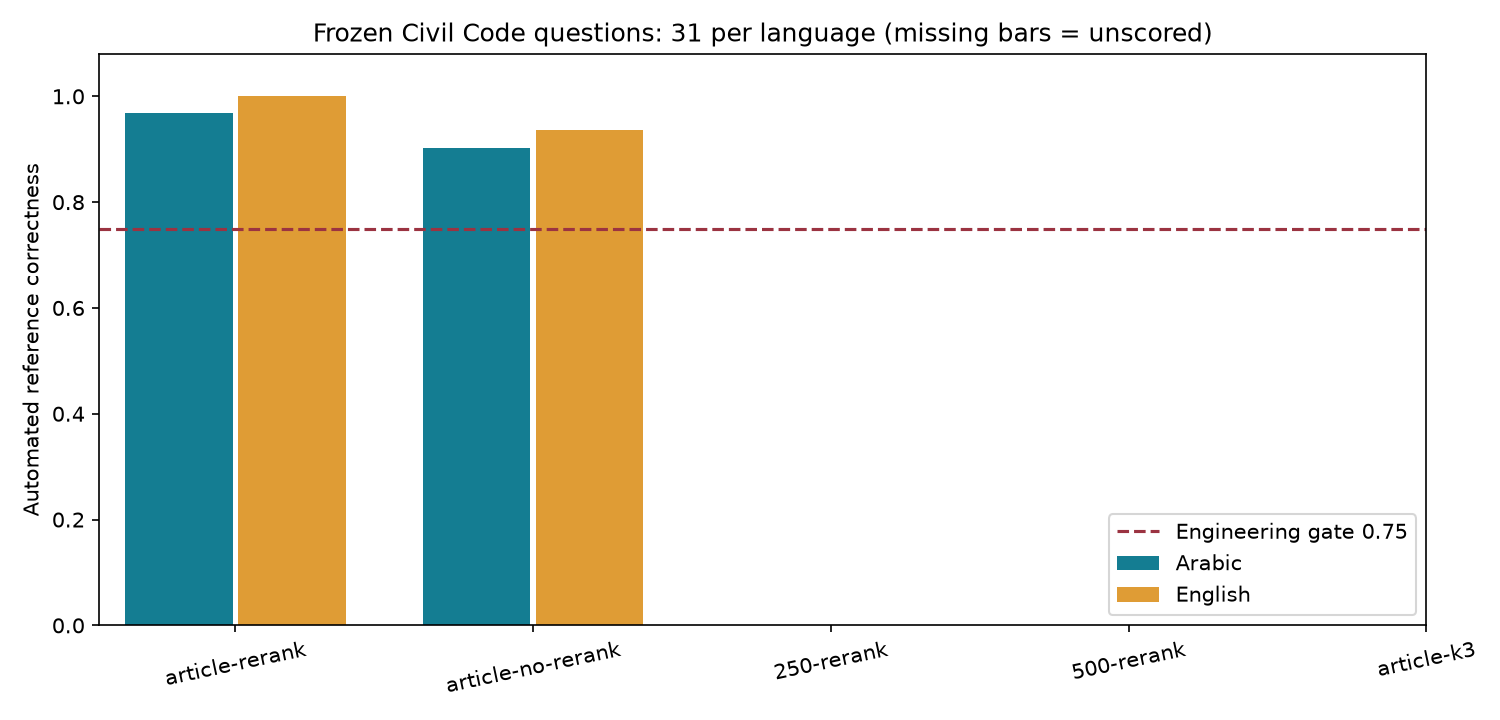
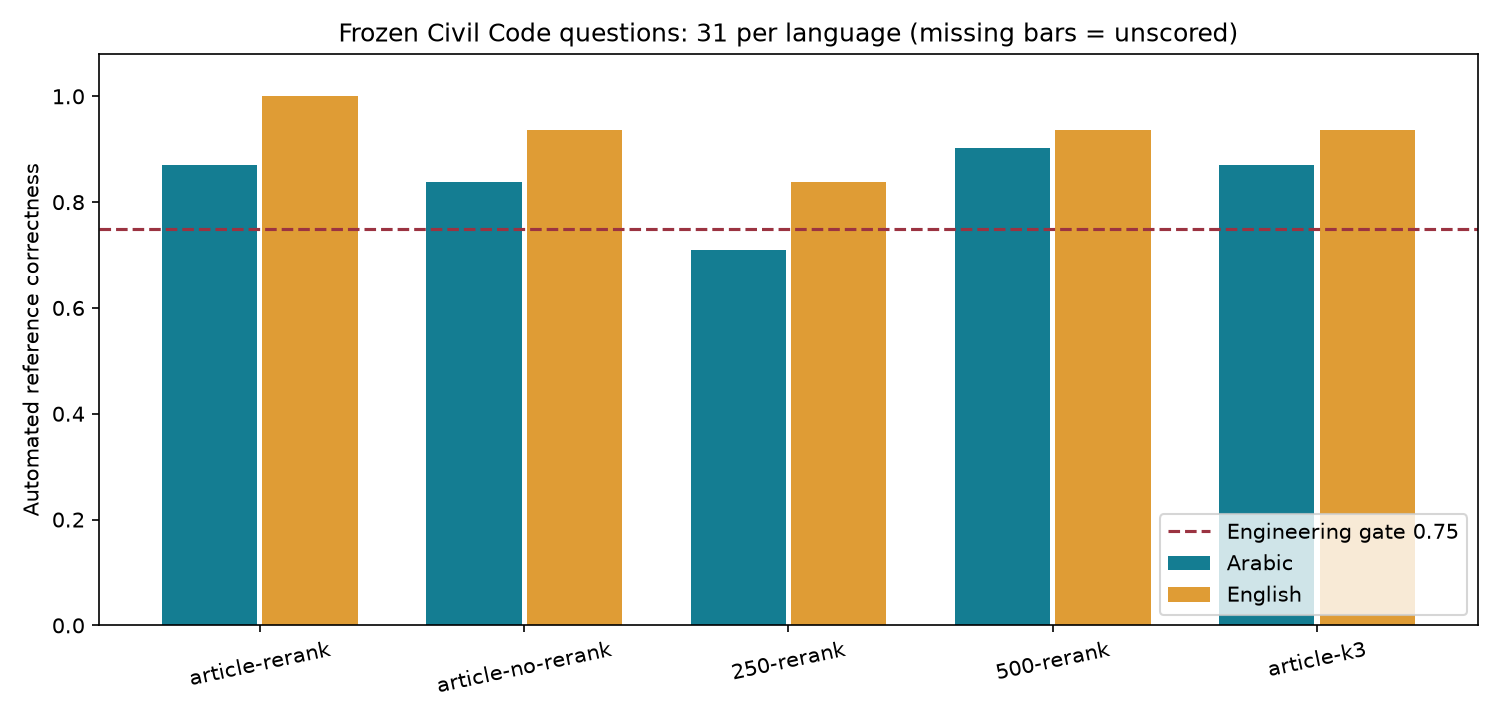
docs(eval): finalize Civil Code results and measured serving report

diff --git a/scripts/report_final_project.py b/scripts/report_final_project.py
@@ -394,7 +394,7 @@ def main():
         ),
         "- HTTP 429 interrupted the first scoring attempt. Saved answers and completed scores were resumed with request pacing; no answers were regenerated to improve scores.",
         "- Invalid/truncated judge JSON interrupted scoring. Rubric calls use 2,048 output tokens with one 4,096-token retry: length termination repeats the original request, while invalid JSON/schema adds a format-only reminder of the required typed fields. A second invalid response fails; missing or quoted booleans are never coerced into grades. The format-retry cache version is recorded in the request hash. Successful rubric/RAGAS calls are cached against exact inputs for resume.",
-        "- The offline scorer was deliberately checkpointed to load scheduling/recovery fixes. KeyboardInterrupt entries in scoring-unicode-v2.log document those worker restarts; they are not repeated model training or RAG generation. Intermittent provider 500s retain cached work and reset the recovery budget only after completed-case progress; four consecutive failures without progress remain bounded.",
+        "- The offline scorer was deliberately checkpointed to load scheduling/recovery fixes. KeyboardInterrupt entries in the scoring logs document those worker restarts; they are not repeated model training or RAG generation. The recovery guard recognizes completed cases and new persisted grading-stage results. Diagnostic writes do not count as progress. Four consecutive failures with neither kind of progress and the wall deadline remain bounded.",
         "",
         "## Earlier training and model selection",
         "",
@@ -416,7 +416,7 @@ def main():
         "",
         "The real upload/process workflow exposed a numeric asset-ID lookup bug; processing now accepts the ID returned by upload while retaining filename lookup and project scope. Queued model calls now wait asynchronously before entering a worker, so the model lock does not consume the worker pool. Bulk SQL operations have a 30-second budget; readiness retains its separate deadline. PGVector reindex batches replace only their supplied chunk IDs transactionally, with configurable batch size (default 50).",
         "",
-        "Verification: 243 tests passed with 86.55% source coverage. Two actual same-vector reinsertions into the isolated PGVector project left exactly 2,297 rows. The existing Docker API was rebuilt after confirming no active production jobs; nginx health returned 200, missing-key requests 401 and authenticated blank queries 422, all with request IDs. These health/authentication checks also passed after the subsequent laptop restart on 16 October. Existing credentials, documents and production indexes were preserved.",
+        "Verification: 244 tests passed with 86.55% source coverage. Two actual same-vector reinsertions into the isolated PGVector project left exactly 2,297 rows. The existing Docker API was rebuilt after confirming no active production jobs; nginx health returned 200, missing-key requests 401 and authenticated blank queries 422, all with request IDs. These health/authentication checks also passed after the subsequent laptop restart on 16 October. Existing credentials, documents and production indexes were preserved.",
         "",
         "## Five configuration comparisons",
         "",
@@ -523,12 +523,14 @@ def main():
         "",
         "See `eval/CIVIL_CODE_EVALUATION.md` for the frozen dataset, extraction and five-run command. Raw reports, checkpoints, calibration, exact contexts, MLflow tracking database, Locust CSV/HTML, streaming probes and metric snapshots remain local under `eval/reports/final-project/` and `reports/mlflow.db`. No secrets are included in the shareable evidence archive.",
         "",
-        "The Grafana screenshot shows the configured production dashboard and the published completed article-rerank scores from the current versioned judge. The isolated port-8003 load API was not a Prometheus scrape target; its stage figures use the saved before/after metric snapshots. Locust HTML is a periodic snapshot; final JSON counts after draining take precedence.",
+        "The Grafana screenshot shows the configured production dashboard and the published completed article-rerank scores from the current versioned judge. Historical score steps include different judge profiles and do not establish model improvement; published-evaluation.json pins the current source report. The isolated port-8003 load API was not a Prometheus scrape target; its stage figures use the saved before/after metric snapshots. Locust HTML is a periodic snapshot; final JSON counts after draining take precedence.",
         "",
     ]
     if revised_super:
         lines += [
             "The final scoring profile uses the original Nemotron 3 Super endpoint with the revised candidate-unicode-v2 rubric. A real RAGAS request succeeded and all 28 controls passed again (super-candidate-judge-calibration.json) after repeated VL endpoint throttling. It scores every configuration separately under configurations-super-candidate-v2/. Exact original-model RAGAS cache entries are reusable through their input/model/options hash; changed reference-rubric requests have new keys. VL grades and legacy reference grades are retained for audit and are not mixed into this comparison.",
+            "",
+            "The final reference rubric rejects the Arabic Article 44 and truncated Article 226 answers, but still accepts the Article 94 and 147 omissions. Its RAGAS faithfulness score of 1.0 for Article 44 also misses the unsupported definition. These disagreements are recorded in final-judge-review.json; the automatic scores have not been replaced with assistant judgments.",
             "",
         ]
     args.report.parent.mkdir(parents=True, exist_ok=True)

diff --git a/docs/final-project-report.md b/docs/final-project-report.md
@@ -2,7 +2,7 @@
 
 Measured Civil Code retrieval, answer quality and local serving capacity. These results are engineering diagnostics; they do not certify legal correctness.
 
-**Scoring is incomplete.** All five configurations have captured 62 answers each. Missing scores are n/a; no five-way quality winner or promotion is claimed while the consistent regrade is unfinished.
+All five configurations have completed automated scoring; the judge limitations below still apply.
 
 ## Source and experiment
 
@@ -14,10 +14,10 @@ Measured Civil Code retrieval, answer quality and local serving capacity. These 
 - Quality runs seed disposable embedded Qdrant indexes from the extracted Qalam articles and use the existing RAG controller. The separate real upload/process/index load workflow uses PGVector; no backend-quality equivalence is inferred.
 - Generator uses 4-bit NF4 on the 6-GiB RTX 3060; context 2,048, one active generation sequence. No adapter is loaded and no training was performed.
 - Direct NVIDIA Nemotron VL 1B v2 embeddings (2,048 dimensions) avoid exhausting the production OpenRouter 50-request daily allowance. Existing production settings/indexes were preserved.
-- Independent judge: NVIDIA Nemotron 3.5 Super VL 120B, temperature zero, candidate-unicode-v2 rubric. All 28 bilingual numerical, completeness and refusal controls passed before scoring. All five configurations use this same judge/profile in a separate scoring directory; legacy scores are not mixed in. Controls are a sanity check, not legal expert validation.
+- Independent judge: `nvidia/nemotron-3-super-120b-a12b`, temperature zero, candidate-unicode-v2 rubric. All 28 bilingual numerical, completeness and refusal controls passed before scoring. All five configurations use this same judge/profile in a separate scoring directory; legacy scores are not mixed in. Controls are a sanity check, not legal expert validation.
 - HTTP 429 interrupted the first scoring attempt. Saved answers and completed scores were resumed with request pacing; no answers were regenerated to improve scores.
-- An unterminated judge JSON response also interrupted scoring. Invalid/truncated output is rejected; rubric calls use 2,048 output tokens, with one 4,096-token retry only when the API reports length termination. Partial responses never become scores. Successful rubric/RAGAS calls are cached against exact inputs for resume.
-- The offline scorer was deliberately checkpointed to load scheduling/recovery fixes. KeyboardInterrupt entries in scoring-unicode-v2.log document those worker restarts; they are not repeated model training or RAG generation. Intermittent provider 500s retain cached work and reset the recovery budget only after completed-case progress; four consecutive failures without progress remain bounded.
+- Invalid/truncated judge JSON interrupted scoring. Rubric calls use 2,048 output tokens with one 4,096-token retry: length termination repeats the original request, while invalid JSON/schema adds a format-only reminder of the required typed fields. A second invalid response fails; missing or quoted booleans are never coerced into grades. The format-retry cache version is recorded in the request hash. Successful rubric/RAGAS calls are cached against exact inputs for resume.
+- The offline scorer was deliberately checkpointed to load scheduling/recovery fixes. KeyboardInterrupt entries in the scoring logs document those worker restarts; they are not repeated model training or RAG generation. The recovery guard recognizes completed cases and new persisted grading-stage results. Diagnostic writes do not count as progress. Four consecutive failures with neither kind of progress and the wall deadline remain bounded.
 
 ## Earlier training and model selection
 
@@ -39,30 +39,30 @@ The pilot's M/A adapter showed more masked-evidence rejection with reduced answe
 
 The real upload/process workflow exposed a numeric asset-ID lookup bug; processing now accepts the ID returned by upload while retaining filename lookup and project scope. Queued model calls now wait asynchronously before entering a worker, so the model lock does not consume the worker pool. Bulk SQL operations have a 30-second budget; readiness retains its separate deadline. PGVector reindex batches replace only their supplied chunk IDs transactionally, with configurable batch size (default 50).
 
-Verification: 242 tests passed with 86.55% source coverage. Two actual same-vector reinsertions into the isolated PGVector project left exactly 2,297 rows. The existing Docker API was rebuilt after confirming no active production jobs; nginx health returned 200, missing-key requests 401 and authenticated blank queries 422, all with request IDs. These health/authentication checks also passed after the subsequent laptop restart on 16 October. Existing credentials, documents and production indexes were preserved.
+Verification: 244 tests passed with 86.55% source coverage. Two actual same-vector reinsertions into the isolated PGVector project left exactly 2,297 rows. The existing Docker API was rebuilt after confirming no active production jobs; nginx health returned 200, missing-key requests 401 and authenticated blank queries 422, all with request IDs. These health/authentication checks also passed after the subsequent laptop restart on 16 October. Existing credentials, documents and production indexes were preserved.
 
 ## Five configuration comparisons
 
 | Configuration | Faithfulness | Relevancy | Context precision | Context recall | Reference accuracy | p95 seconds | Scored / 62 | Gate |
 |---|---:|---:|---:|---:|---:|---:|---:|---|
-| article-rerank | 0.981 | 0.715 | 0.955 | 1.000 | 0.984 | 28.719 | 62/62 | PASS |
-| article-no-rerank | 0.971 | 0.719 | 0.896 | 1.000 | 0.919 | 28.000 | 62/62 | PASS |
-| 250-rerank | n/a | n/a | n/a | n/a | n/a | 27.308 | 8/62 | PENDING |
-| 500-rerank | n/a | n/a | n/a | n/a | n/a | 36.618 | 0/62 | PENDING |
-| article-k3 | n/a | n/a | n/a | n/a | n/a | 33.956 | 0/62 | PENDING |
+| article-rerank | 0.949 | 0.710 | 0.962 | 1.000 | 0.935 | 28.719 | 62/62 | PASS |
+| article-no-rerank | 0.946 | 0.706 | 0.894 | 1.000 | 0.887 | 28.000 | 62/62 | PASS |
+| 250-rerank | 0.928 | 0.769 | 0.915 | 0.950 | 0.774 | 27.308 | 62/62 | FAIL |
+| 500-rerank | 0.925 | 0.719 | 0.958 | 1.000 | 0.919 | 36.618 | 62/62 | PASS |
+| article-k3 | 0.969 | 0.746 | 0.957 | 1.000 | 0.903 | 33.956 | 62/62 | PASS |
 
 | Configuration / language | Answerable accuracy | Abstention accuracy | Article hit rate |
 |---|---:|---:|---:|
-| article-rerank / ar | 1.000 | 0.833 | 1.000 |
+| article-rerank / ar | 0.880 | 0.833 | 1.000 |
 | article-rerank / en | 1.000 | 1.000 | 1.000 |
-| article-no-rerank / ar | 0.920 | 0.833 | 1.000 |
+| article-no-rerank / ar | 0.840 | 0.833 | 1.000 |
 | article-no-rerank / en | 0.960 | 0.833 | 1.000 |
-| 250-rerank / ar | n/a | n/a | 1.000 |
-| 250-rerank / en | n/a | n/a | 1.000 |
-| 500-rerank / ar | n/a | n/a | 1.000 |
-| 500-rerank / en | n/a | n/a | 1.000 |
-| article-k3 / ar | n/a | n/a | 1.000 |
-| article-k3 / en | n/a | n/a | 1.000 |
+| 250-rerank / ar | 0.680 | 0.833 | 1.000 |
+| 250-rerank / en | 0.800 | 1.000 | 1.000 |
+| 500-rerank / ar | 0.920 | 0.833 | 1.000 |
+| 500-rerank / en | 0.920 | 1.000 | 1.000 |
+| article-k3 / ar | 0.920 | 0.667 | 1.000 |
+| article-k3 / en | 0.920 | 1.000 | 1.000 |
 
 Faithfulness excludes expected refusals; reference accuracy includes them. Additional RAGAS scores cover answerable questions only. PASS is the automated engineering threshold, not legal acceptance: the judge's known false positives below can overestimate correctness. Generation remains sequential; remote grading is excluded from response latency. Completed per-case answers and exact retrieved contexts are saved. MLflow records the five configurations and artifacts; interrupted attempts remain visible.
 
@@ -95,7 +95,7 @@ The assistant compared all 62 article-rerank outputs with their frozen reference
 
 The legacy Super judge misread a clear Arabic court-address refusal and invented claims when grading the Article 374 answer. Its original machine scores are preserved under configurations/ for audit. The evidence includes assistant-answer-review.json with exact case IDs; no assistant-corrected legal accuracy percentage is inferred.
 
-The revised judge also misses real defects: for Arabic Article 44 it assigns full faithfulness while omitting the unsupported definition of legal interdiction from its claim list. It accepts the incomplete Arabic Article 94, 147 and truncated Article 226 answers despite the earlier source review's findings. The shorter omission control passed, but that did not transfer reliably to these longer real outputs. Passing calibration does not guarantee exhaustive claim extraction or legally correct grading; every reported correctness score remains an automated estimate. See revised-judge-review.json; original scores are preserved.
+The separately recorded revised Super VL judge also misses real defects: for Arabic Article 44 it assigns full faithfulness while omitting the unsupported definition of legal interdiction from its claim list. It accepts the incomplete Arabic Article 94, 147 and truncated Article 226 answers despite the earlier source review's findings. The shorter omission control passed, but that did not transfer reliably to these longer real outputs. Passing calibration does not guarantee exhaustive claim extraction or legally correct grading; every reported correctness score remains an automated estimate. See revised-judge-review.json; original scores are preserved.
 
 A recovery check on 16 October found Nemotron 3.5 Super VL callable, but the legacy rubric failed 11 of 28 controls. Investigation found that Arabic rubric inputs were Unicode-escaped and candidate claims could be confused with reference claims. The revised rubric sends readable Arabic, explicitly identifies candidate_answer, forbids replacing its words/numbers with reference claims and rejects omitted required conditions. It passed all 28 controls; super35-judge-calibration.json records the revised results and super35-legacy-rubric-calibration.json retains the failures. Changing serialization, instructions and judge requires regrading every configuration separately; earlier scores are not comparable as a model-quality improvement. DeepSeek V4.1 Flash timed out with its documented non-thinking option.
 
@@ -117,7 +117,11 @@ The SSE tokenizer counts support the reported end-to-end output rate. No provide
 
 See `eval/CIVIL_CODE_EVALUATION.md` for the frozen dataset, extraction and five-run command. Raw reports, checkpoints, calibration, exact contexts, MLflow tracking database, Locust CSV/HTML, streaming probes and metric snapshots remain local under `eval/reports/final-project/` and `reports/mlflow.db`. No secrets are included in the shareable evidence archive.
 
-The Grafana screenshot shows the configured production dashboard and the published completed article-rerank scores from the current versioned judge. The isolated port-8003 load API was not a Prometheus scrape target; its stage figures use the saved before/after metric snapshots. Locust HTML is a periodic snapshot; final JSON counts after draining take precedence.
+The Grafana screenshot shows the configured production dashboard and the published completed article-rerank scores from the current versioned judge. Historical score steps include different judge profiles and do not establish model improvement; published-evaluation.json pins the current source report. The isolated port-8003 load API was not a Prometheus scrape target; its stage figures use the saved before/after metric snapshots. Locust HTML is a periodic snapshot; final JSON counts after draining take precedence.
+
+The final scoring profile uses the original Nemotron 3 Super endpoint with the revised candidate-unicode-v2 rubric. A real RAGAS request succeeded and all 28 controls passed again (super-candidate-judge-calibration.json) after repeated VL endpoint throttling. It scores every configuration separately under configurations-super-candidate-v2/. Exact original-model RAGAS cache entries are reusable through their input/model/options hash; changed reference-rubric requests have new keys. VL grades and legacy reference grades are retained for audit and are not mixed into this comparison.
+
+The final reference rubric rejects the Arabic Article 44 and truncated Article 226 answers, but still accepts the Article 94 and 147 omissions. Its RAGAS faithfulness score of 1.0 for Article 44 also misses the unsupported definition. These disagreements are recorded in final-judge-review.json; the automatic scores have not been replaced with assistant judgments.
 
 ## Figures
 

diff --git a/docs/plan-review.md b/docs/plan-review.md
@@ -10,26 +10,32 @@ limits and `docs/cue-memory.md` for the experiment/audit distinction.
 
 Measured evidence is now in [the final-project report](final-project-report.md).
 Qalam extracted all 1,149 Civil Code articles; the frozen set has 62 bilingual
-questions. All five configurations captured 62 real answers each. Complete
-RAGAS/reference scores and pending provider-limited scores are distinguished in
-the report; no five-way quality winner is claimed while grading is incomplete.
+questions. All five configurations captured and graded 62 real answers each:
+310 results with the same versioned Nemotron 3 Super judge. Exact saved answers,
+contexts and latencies are preserved; the final audit reproduces every aggregate
+and language-specific gate. The article/rerank baseline has the highest automated
+reference mean (58/62); the 250-character variant fails the Arabic quality gate.
+Known judge errors prevent interpreting these figures as legal accuracy.
 The real PGVector run observed 50 users but failed 50/58 answer requests; its
 six guarded SSE probes completed. This hardware does not pass the capacity target.
 External Langfuse, alerting and protected CI settings remain optional configuration.
 The historical implementation review below is retained with these updates. Both
 GPU services and nginx/API readiness recovered after the latest laptop restart;
 authentication checks again returned the expected 401/422 responses. The latest
-suite passes 243 tests with 86.55% coverage. The legacy rubric failed 11/28 controls
+suite passes 244 tests with 86.55% coverage. The legacy rubric failed 11/28 controls
 with Super VL. After fixing readable Arabic and candidate/reference separation,
-the versioned rubric passed 28/28 controls and started a separate consistent
-regrade. Two configurations have complete new scores; the remaining grades are
-limited by NVIDIA 429 responses even after cooldown and slower request pacing.
+the versioned rubric passed 28/28 controls. Following VL endpoint throttling, the
+original Super endpoint also passed all 28 controls and completed all five
+comparisons in a separate directory. NVIDIA 429/connection failures were recovered
+using saved answers, grades and successful intermediate stages. Legacy and VL
+scores are retained separately and are not mixed into the final comparison.
 Real-answer inspection still finds judge false positives; its passing controls
 and engineering gates do not establish legal correctness.
 
 The report is exported as an actual PDF with four figures, per-case review CSV
-and screenshots of Locust and Grafana. Five explicitly tagged final MLflow runs
-separate complete quality scores from provider-limited capture measurements.
+and screenshots of Locust and Grafana. Five finished final MLflow runs under
+`2026-10-16-super-candidate-v2` contain the complete scores; 18 earlier runs and
+the previous VL release snapshot are retained as history.
 The evidence export scans configured secrets and verifies ZIP integrity and
 every payload checksum. The exported tracking database preserves original local
 artifact paths; the actual result files are included separately.
@@ -73,9 +79,9 @@ DVC now tracks a reproducible source snapshot and the complete structured corpus
 through dvc.yaml/dvc.lock. The committed raw PDF can reproduce these outputs
 without a storage remote. Git continues to version the small evaluation datasets.
 A five-configuration MLflow experiment runner logs parameters, metrics and reports
-using disposable indexes. All five measured capture runs are now recorded; two
-have complete versioned automated grades. No model/config registry promotion or complete
-five-way quality ranking is claimed while the remaining grading is incomplete.
+using disposable indexes. All five configurations now have complete versioned
+automated grades recorded in MLflow. Model/config registry promotion was not
+performed; the measured comparison does not establish legal acceptance.
 
 ## Session 3
 
@@ -101,7 +107,7 @@ when measured bottlenecks or course requirements justify changing this scope.
 | 4.3 Grafana/alerts | Provisioned datasource and 13 panels including per-language quality, TTFT and guardrails. Six alert rules; recorded evaluation metrics use node_exporter's textfile collector. No fabricated baseline, token prices, GPU data or outbound notification destination. |
 | 4.4 Evidently | Tabular drift tooling skipped; it does not match this API's input or the current baseline. |
 | 4.5 Langfuse | Pinned opt-in SDK, answer/retrieve/provider/stream spans, correlation/index/project/prompt metadata, actual non-stream usage and scoped feedback. Raw content omitted before export. Optional system-prompt labels with local fallback. No additional hosting stack or external keys provisioned. |
-| 4.6 RAGAS | Preserved the 20-case gate; froze a 62-case assistant-reviewed Civil Code set. Actual four-metric and reference-rubric reports are saved where complete; 429/incomplete-JSON failures preserve checkpoints. All five configurations captured answers/contexts. Semantic refusal, numerical conditions and source articles are inspected. No legal expert review or certified judge agreement is claimed. |
+| 4.6 RAGAS | Preserved the 20-case gate; froze a 62-case assistant-reviewed Civil Code set. All five four-metric and reference-rubric reports are complete, with exact saved answers/contexts. Recovered 429/incomplete-JSON failures using checkpoints and validated cached stages. Semantic refusal, numerical conditions and source articles are inspected. No legal expert review or certified judge agreement is claimed. |
 | 4.7 Guardrails/access | API-key identities, explicit project ACLs (including job status/feedback), bounded key quotas with 429/Retry-After, deterministic Arabic/English input/document injection checks, bounded PII redaction, buffered stream filtering, source-required fallback and optional calibrated retrieval refusal. Docker auth enabled with an ignored local client secret. These rules do not establish medical-data safety or claim-by-claim groundedness. |
 | 4.8 Operations | Updated runbook, architecture, setup commands, model/observability/evaluation instructions and source-issue documentation. |
 
@@ -118,11 +124,11 @@ text was manufactured or relabeled. Human Arabic spot-checking remains necessary
 
 ## Remaining evidence and scope limits
 
-- Model setup, full-corpus extraction, 310 captured comparison answers, 50-user
+- Model setup, full-corpus extraction, 310 captured and graded comparison answers, 50-user
   load/SSE measurements, report/figures/screenshots and real Docker checks are
-  recorded. Remaining automated scores are explicitly pending while the NVIDIA
-  judge is throttled; partial scores do not establish a five-way quality winner.
-  The measured load target failed and generator numerical errors/omissions remain.
+  recorded. The final hash/identity audit and five finished MLflow runs are complete.
+  The measured load target failed and generator numerical errors/omissions remain;
+  these are observed limitations, not results converted into passes.
 - Langfuse credentials/hosting, an alert notification destination and protected
   GitHub evaluation secrets/variables are external configuration. No external
   project, notification or CI run has been created or claimed verified.
@@ -141,7 +147,7 @@ text was manufactured or relabeled. Human Arabic spot-checking remains necessary
 
 See docker/VERIFICATION.md for current source/container checks. DVC repro/status,
 editable installation and local tests are independent of an inference model.
-Latest full suite: 243 tests, 86.55% source coverage. Actual API findings led to
+Latest full suite: 244 tests, 86.55% source coverage. Actual API findings led to
 the numeric asset-ID lookup fix, asynchronous model wait gate, bulk SQL budget
 and idempotent PGVector batches. The existing Docker API was rebuilt and checked.
 No existing user database/vector volume was reset; isolated evaluation projects

diff --git a/eval/CIVIL_CODE_EVALUATION.md b/eval/CIVIL_CODE_EVALUATION.md
@@ -134,19 +134,24 @@ be resumed into the revised rubric. The report's explicit
 `--allow-incomplete` mode accepts all five captured runs but marks pending scores
 as n/a; it never claims that scoring or quality selection is complete.
 
-The earlier evidence snapshot records five `final-measured-*` MLflow runs under
-the `2026-10-16-unicode-v2` release tag. Two have complete revised quality scores;
-the others record only captured-case counts, retrieval hits, latency and completed
-grading counts. Their `provider_limited` tags are not failed legal judgments.
-`mlflow-release.json` identifies these runs separately from historical attempts.
+The final `mlflow-release.json` identifies five finished `final-scored-*` runs
+under `2026-10-16-super-candidate-v2`, each with all 62 scores from the original
+Super endpoint and revised rubric. The final audit verifies all 310 grades against
+the original captured answers and reproduces all overall/per-language aggregates.
+Eighteen earlier runs remain in the database. The earlier VL snapshot is preserved
+as `mlflow-release-unicode-v2.json`: its five `final-measured-*` runs under
+`2026-10-16-unicode-v2` include two complete scores and three capture/partial
+measurements. Their `provider_limited` tags are not failed legal judgments.
 The exported database retains its original local artifact paths; the actual
 report files are also included separately in the evidence ZIP.
 
-The current recovery uses `nvidia/nemotron-3-super-120b-a12b` with the same revised
+The completed comparison uses `nvidia/nemotron-3-super-120b-a12b` with the same revised
 rubric. A real RAGAS request and all 28 controls passed, including a repeat after
 the format-retry fix. It uses `configurations-super-candidate-v2/`, separate from
-the VL regrade and legacy reference scores. Its ignored profile uses 2.1-second
-request spacing, two HTTP slots and three grading workers. A malformed rubric gets
+the VL regrade and legacy reference scores. Its initial successful profile used
+2.1-second request spacing, two HTTP slots and three grading workers. After 429s
+recurred during the last configuration, recovery switched to five-second spacing,
+one HTTP slot and one grading worker. A malformed rubric gets
 one format-only retry at 4,096 tokens; a second invalid response fails. Missing or
 quoted booleans are never cast into grades. Valid saved grades and exact
 input/model/options RAGAS cache entries remain reusable.
@@ -170,13 +175,15 @@ Vendor capacity can still be unavailable below an advertised request-rate limit.
 Successful reference rubrics are cached separately from RAGAS stages. Invalid
 JSON/schema or length-terminated judge output cannot become a score. A rubric
 request that reports length termination at 2,048 output tokens receives one retry
-at 4,096; other malformed output uses the bounded transient-failure recovery.
+at 4,096. Other malformed output receives one format-only reminder at 4,096 tokens;
+a second invalid response enters bounded recovery. Neither missing nor quoted
+booleans are accepted as grades.
 Diagnostics retain the actual stop reason and output in the ignored judge cache.
 
-The final scoring profile uses `nvidia/nemotron-3.5-super-vl-120b-a12b` on the
+The earlier VL recovery profile used `nvidia/nemotron-3.5-super-vl-120b-a12b` on the
 same existing NVIDIA account, with temperature zero and
 `RAG_EVAL_JUDGE_EXTRA_BODY={"chat_template_kwargs":{"enable_thinking":false}}`.
-It now uses five-second request spacing, one HTTP request in flight and one grading
+It reached five-second request spacing, one HTTP request in flight and one grading
 worker after repeated 429 responses with the original 2.1-second spacing. A fresh
 availability probe alone is insufficient: actual scoring can still be throttled.
 An attempted two-request/three-worker schedule encountered provider 500s;
@@ -187,8 +194,10 @@ completed and is never called by offline scoring. The request concurrency option
 changes to the frozen answers or grading criteria. Optional
 `RAG_EVAL_HTTP_DIAGNOSTICS=1` saves failed request bodies and response status/body
 inside the private judge cache, excluding authorization headers.
-Recovery stops after four consecutive failures without completed-case progress;
-successful progress resets that counter. `--wait-seconds` bounds waiting/recovery.
+Recovery stops after four consecutive failures without completed-case or new
+persisted-stage progress. The actual DiskCache row count detects successful
+partial grading work; diagnostic files and failed responses do not reset the
+counter. `--wait-seconds` bounds waiting/recovery even when stages keep advancing.
 After provider capacity recovers, rerun the same command to reuse saved answers,
 scores and cached stages. Keep incomplete aggregate metrics n/a.
 

diff --git a/docs/cue-memory.md b/docs/cue-memory.md
@@ -1256,3 +1256,55 @@ Resume the same directory/model using the existing 5s/one-HTTP/one-worker profil
 after cooldown; do not duplicate it. Keep the user's inline Codex checklist and
 actual graded-case progress bar updated. Final reporting must use 244 as the
 latest executed test count, while retaining historical counts in earlier notes.
+
+### Readiness and final-audit preparation — 2026-10-16T05:51:26.056789+00:00
+
+Repeated local read-only readiness/access checks at 2026-10-16T05:40:18.677590+00:00:
+nginx, generator, reranker, Prometheus and Grafana returned 200; missing-key
+and authenticated blank-query requests returned 401/422. Three deployed source
+files (NLPController, data routes and metrics) exactly match this checkout.
+final-readiness.json records the actual running image and request IDs. No new
+generation, upload/index, load run or Docker rebuild was performed.
+
+Four current original-Super configurations are complete; final k3 is 32/62
+(280/310 total). The sole scorer continues using the 5s/one-slot/one-worker
+profile, retaining successful stage progress despite 429s. No duplicate grader
+was launched. A one-off /tmp/rag-finalize-tracking.py is prepared and syntax
+checked, NOT executed: after all five score JSONs exist and the scorer exits, it
+checks exact captured-output identity, typed/finite values and reproduced means,
+then records five --resume MLflow runs without inference. It tags the current
+release 2026-10-16-super-candidate-v2 and retains historical runs. Reports, final
+figures/PDF/screenshots, current docs, audited ZIP and closeout commits still
+follow. /tmp/rag-final-export-secrets.json is private; never print/export it.
+
+### All scoring and final report checks complete — 2026-10-16T06:48:27.677952+00:00
+
+The sole offline scorer exited 0. All five original-Super/candidate-unicode-v2
+reports now contain 62 grades (310 total). No generation was repeated. Executed
+/tmp/rag-finalize-tracking.py: exact answers/contexts/latencies match their original
+captures, frozen dataset/PDF hashes match, typed values are finite, and every
+overall/per-language average, p95 and gate reproduces. capture-audit.json is complete.
+
+Five new finished MLflow runs are tagged 2026-10-16-super-candidate-v2; all have
+62 grades and actual source hashes. Eighteen earlier runs remain. The previous
+VL release snapshot is preserved as mlflow-release-unicode-v2.json; current
+mlflow-release.json selects only the final original-Super runs. No legacy/VL
+grades are merged. k3 finished at faithfulness 0.96917/reference 0.90323. The
+article/rerank baseline has the highest automated reference mean, 58/62; the
+250-character variant fails its Arabic gate (22/31). These are machine diagnostics
+with recorded false positives, not legal accuracy. Existing retrieval defaults
+and selected untuned Qwen base remain.
+
+Generated the strict complete report, 310 unique fully graded CSV rows and all
+four PNG/PDF figure pairs. The final PDF has 11 landscape pages. Visually inspected
+its first page/table (all five 62/62 rows, no clipped table), the full accuracy
+figure and actual Grafana-quality/Locust screenshots. Replaced the earlier PDF
+page screenshots with pages from this final PDF. report-export-audit.json records
+the checks and hashes. Full tests remain 244 passed/12 subtests, coverage 86.55%;
+report script lint/format and git whitespace checks pass. No extra suite/load run.
+
+Next: commit the completed report/docs, create the credential-scanned evidence
+ZIP on G: with that source commit, verify every payload/whole-archive hash, record
+the receipt and commit memory. Keep local GPU/Docker services running. No Cue
+query, remote deployment or new training is required. Preserve the untracked
+user transcript rag-ishms-current.md; never stage/export it.

diff --git a/README.md b/README.md
@@ -18,8 +18,9 @@ checked locally. A frozen 62-question bilingual Civil Code baseline and a real
 50 of 58 answer requests failed under the PGVector load test; this laptop does
 not meet that capacity target. See the [measured report](docs/final-project-report.md),
 [evaluation reproduction](eval/CIVIL_CODE_EVALUATION.md) and
-[model setup](docs/model-serving.md). Remote judge scores are provisional and
-pending comparisons are explicitly marked.
+[model setup](docs/model-serving.md). All five retrieval configurations now have
+complete automated scores for the same 62 questions. These scores remain
+provisional because inspection found judge errors as well as generator errors.
 
 ## Start the already configured project
 

diff --git a/docker/VERIFICATION.md b/docker/VERIFICATION.md
@@ -10,7 +10,7 @@
   and authenticated blank-query checks returned 401 and 422 with request IDs.
   The async wait gate is present in the running image. Existing chunks were not
   rewritten to acquire the new Qalam headers.
-- Full suite: **243 passed, 86.55% source coverage**. Actual evaluation-project
+- Full suite: **244 passed, 86.55% source coverage**. Actual evaluation-project
   SQL verified that two identical chunk reinsertions retain exactly 2,297 rows.
 - The real isolated PGVector load run observed 50 users, 58 answer requests and
   50 failures, with p95 at the 180-second timeout. Six guarded SSE probes finished.
